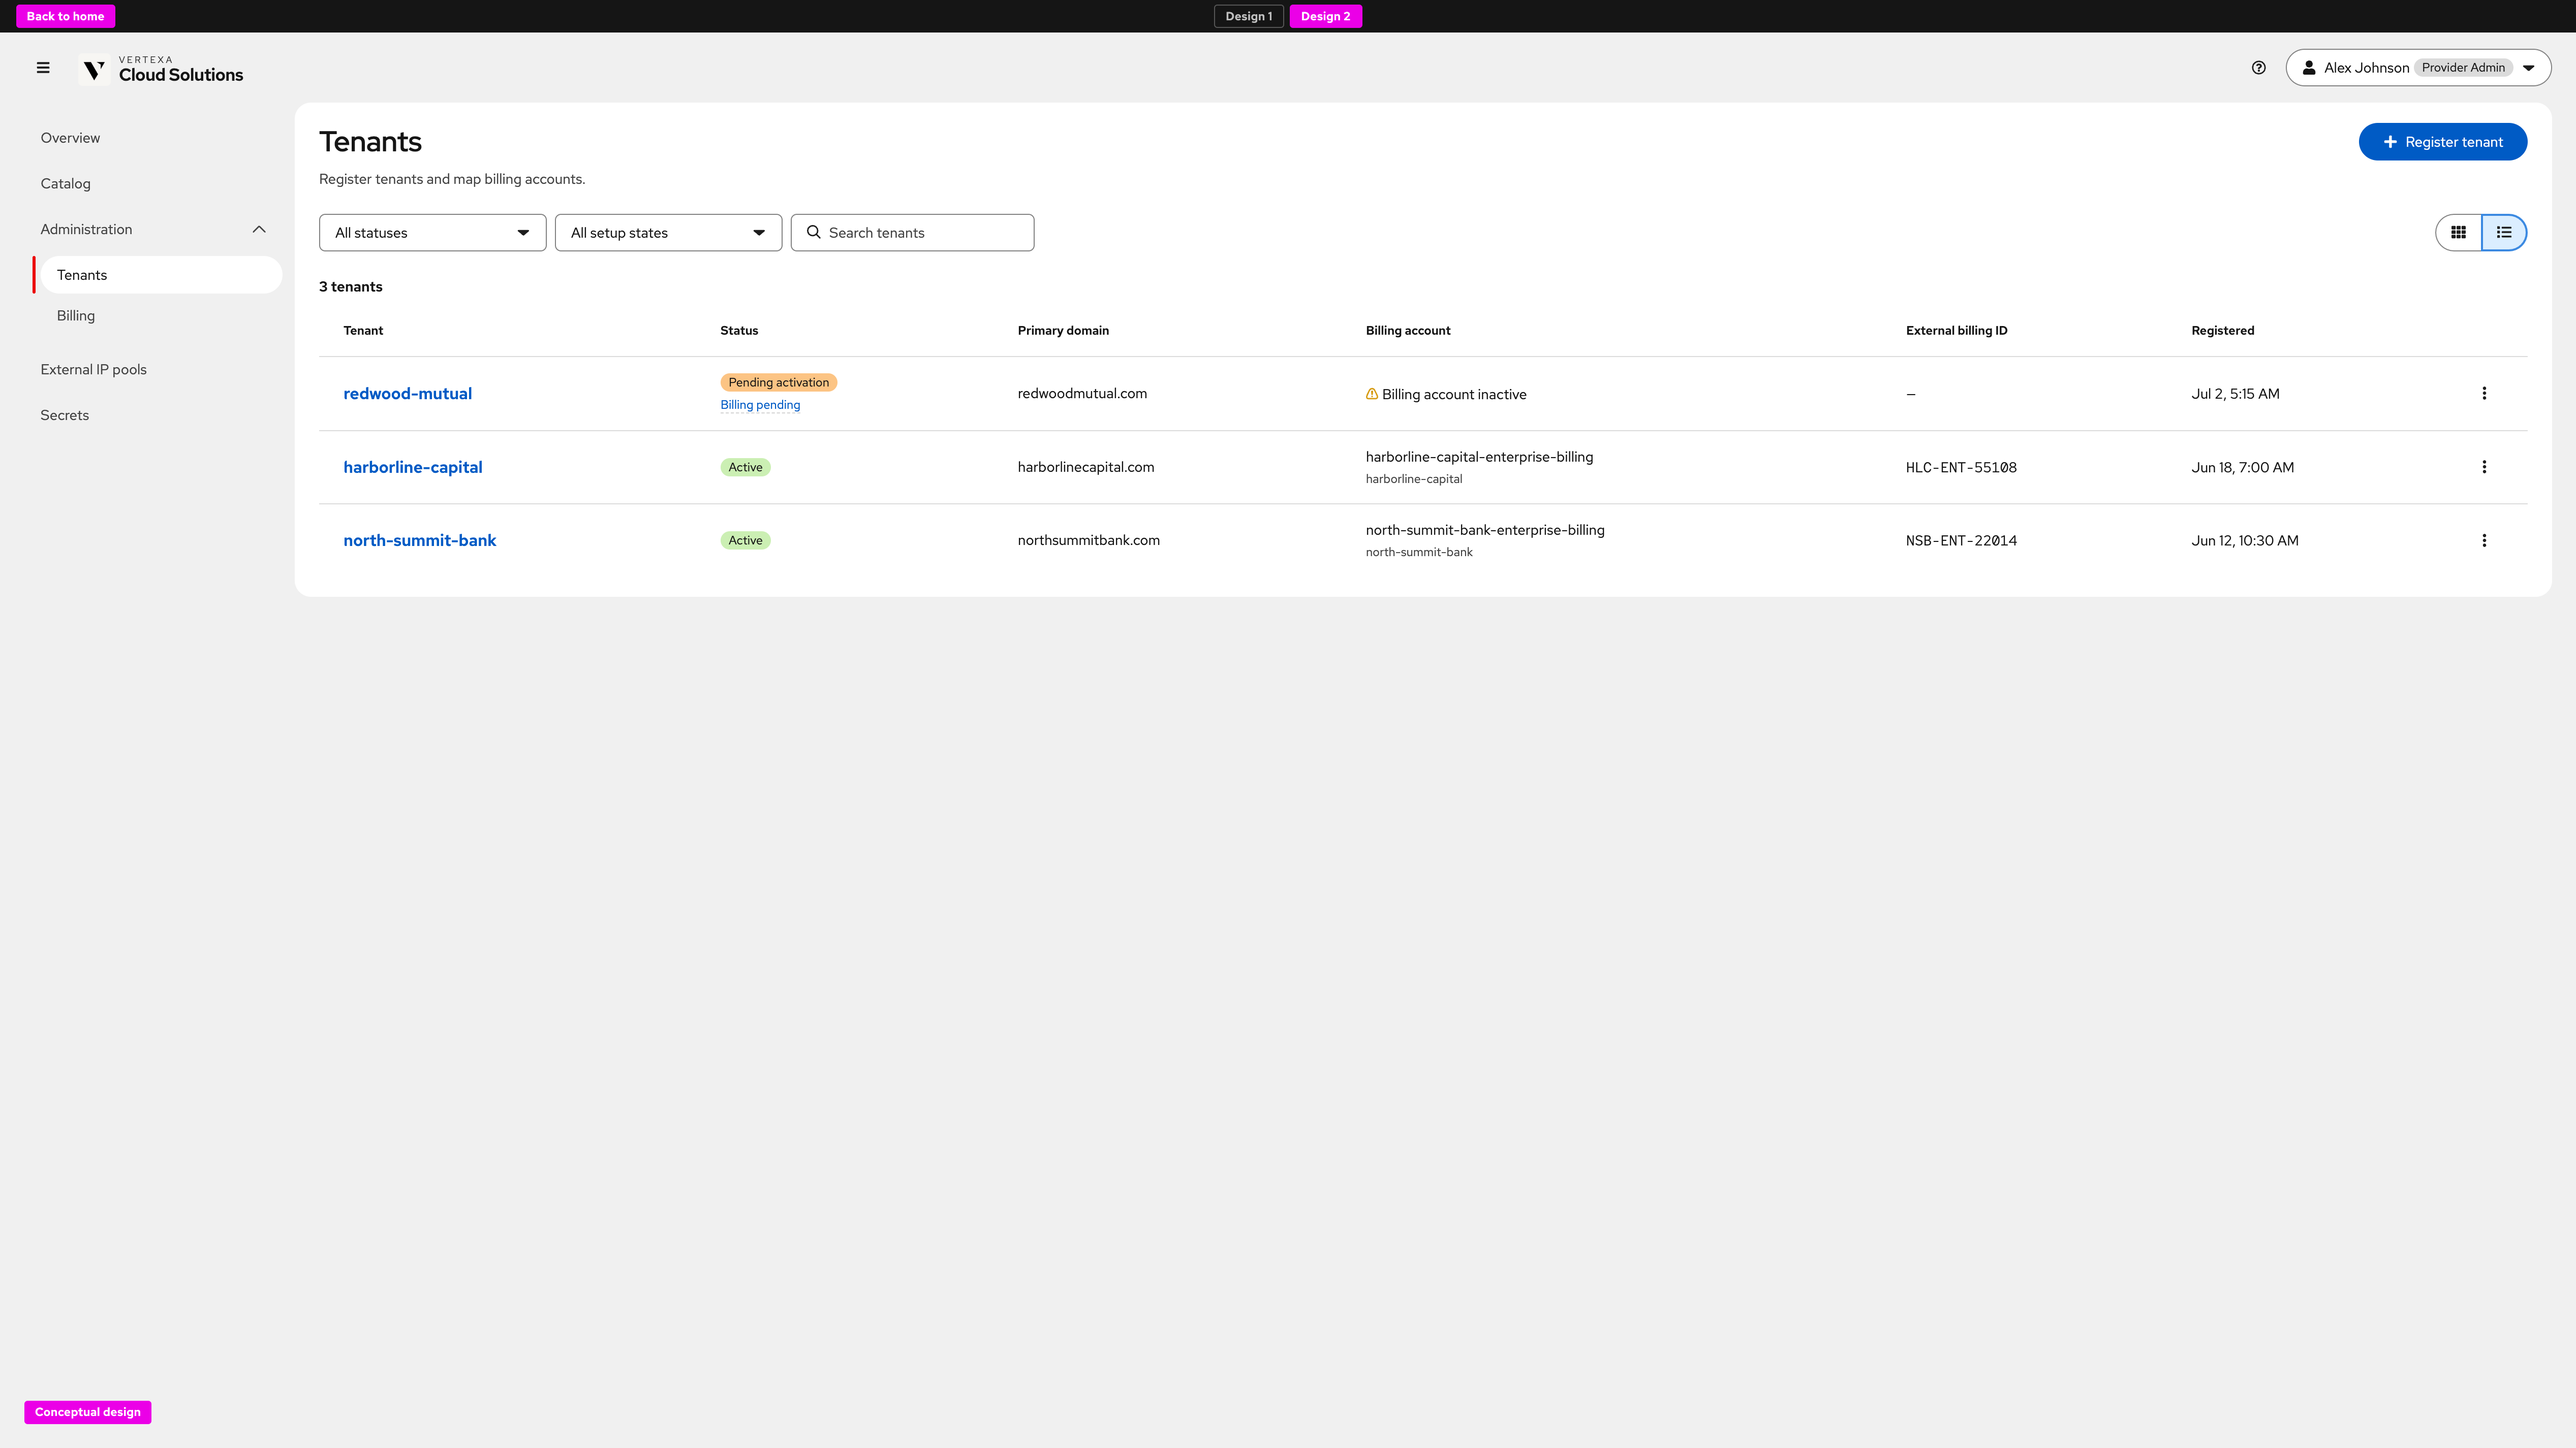
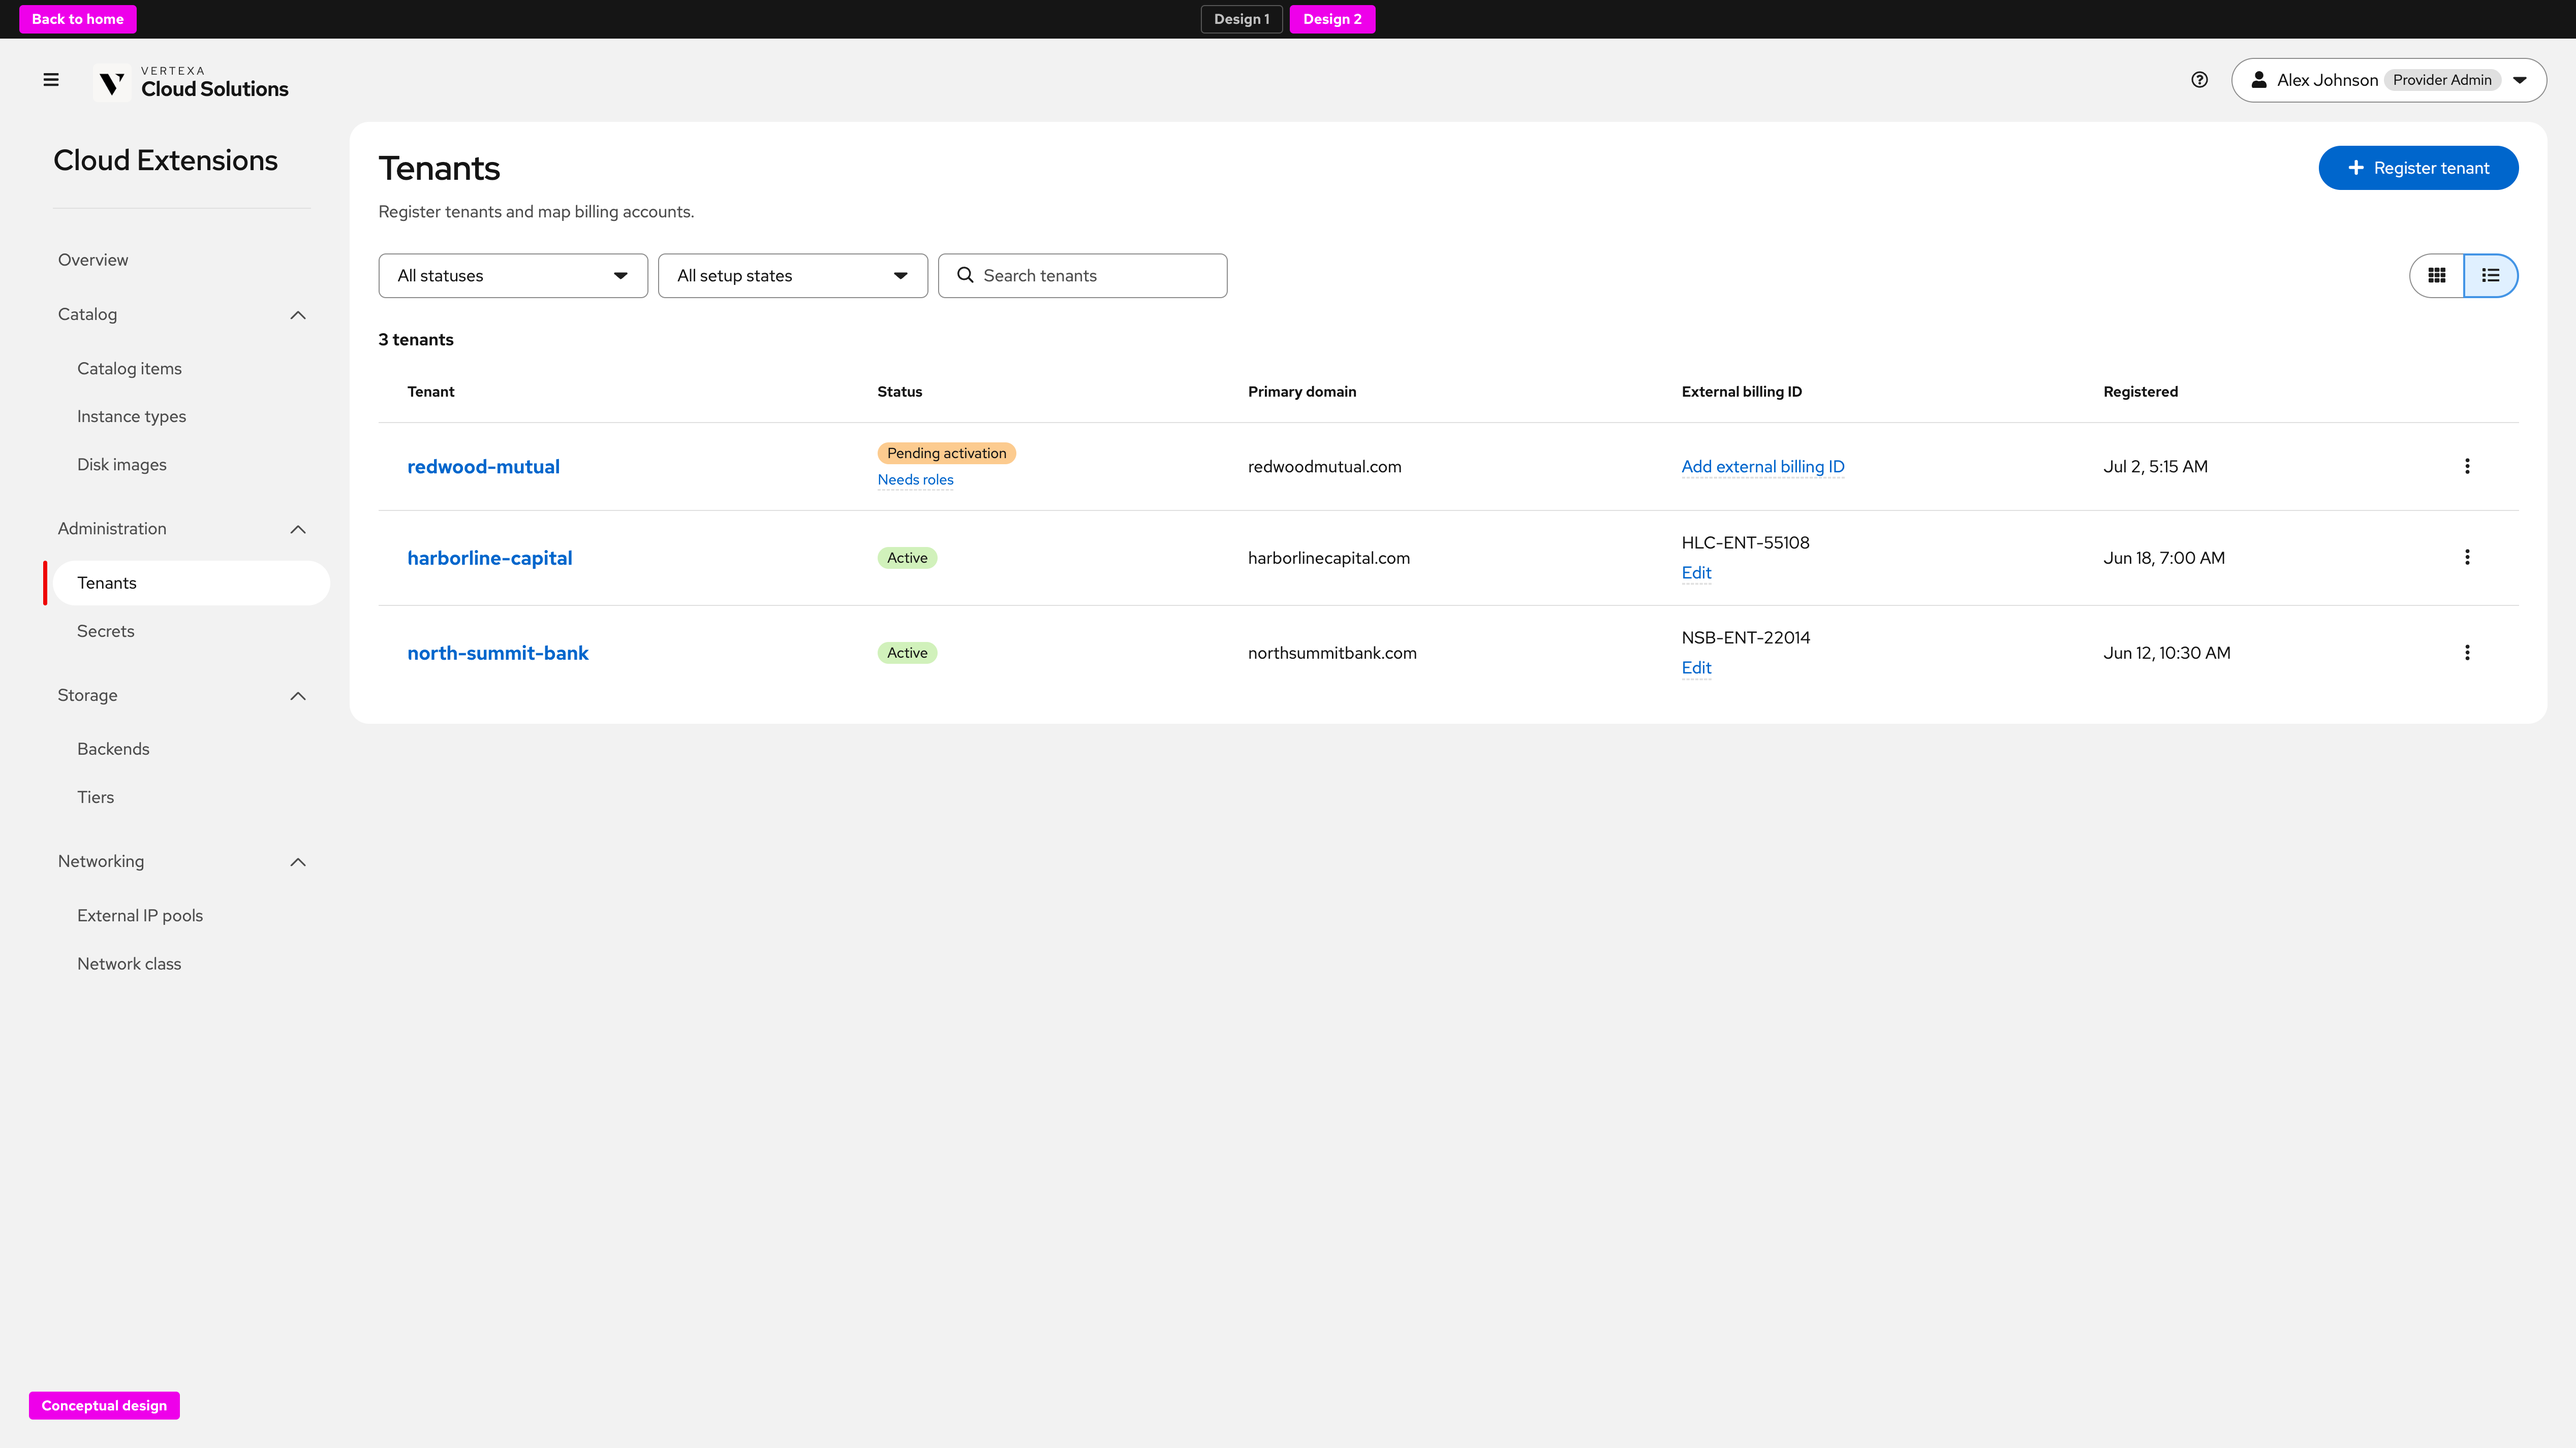
OSAC-6161: Refresh external billing ID UX design from Design Lab
Point prototype links at the published design-lab Design 2 flow and update
screenshots and copy to match the current Billing, Review, list, and detail
screens.

Assisted-by: Cursor <cursor.com>

diff --git a/enhancements/OSAC-6161-tenant-external-billing-id/ux-design.md b/enhancements/OSAC-6161-tenant-external-billing-id/ux-design.md
@@ -2,12 +2,12 @@
 title: tenant-external-billing-id-ux
 authors:
   - ekim@redhat.com
-creation-date: 2026-11-11
-last-updated: 2026-11-11
+creation-date: 2026-11-23
+last-updated: 2026-11-23
 tracking-link:
   - https://redhat.atlassian.net/browse/OSAC-6161
 prd: "prd.md"
-prototype: "http://127.0.0.1:5176/provider/workspace?nav=administration-organizations&hub=1&topic=external-billing-id&design=2&action=register-tenant"
+prototype: "https://heyethankim.github.io/osac-design-lab/provider/workspace?nav=administration-organizations&hub=1&topic=external-billing-id&design=2&action=register-tenant"
 see-also:
   - "/enhancements/OSAC-6161-tenant-external-billing-id/prd.md"
   - "/enhancements/OSAC-6161-tenant-external-billing-id/design.md"
@@ -26,18 +26,17 @@ external billing system**
 Design 2 is the **no integrated billing system** path (Option B): when the
 cluster has no configured billing integration such as M360, Provider Admin
 does not see Link now / Set up later account-linking cards. The Billing step
-is a single optional **External billing ID** field (for example a Zuora
-account ID for Telus-style deployments).
+is a single optional **External billing ID** field (for example a Zuora-style
+account ID).
 
-**Prototype (developers — Design Lab on `:5176`):**
+**Prototype (developers):**
 
-- [Register tenant → Billing (Design 2)](http://127.0.0.1:5176/provider/workspace?nav=administration-organizations&hub=1&topic=external-billing-id&design=2&action=register-tenant)
-- [Tenants list (Design 2)](http://127.0.0.1:5176/provider/workspace?nav=administration-organizations&hub=1&topic=external-billing-id&design=2)
-- [Tenant detail — harborline-capital](http://127.0.0.1:5176/provider/workspace?nav=administration-organizations&hub=1&topic=external-billing-id&design=2&tenant=org-harborline-capital)
+- [Register tenant → Billing (Design 2)](https://heyethankim.github.io/osac-design-lab/provider/workspace?nav=administration-organizations&hub=1&topic=external-billing-id&design=2&action=register-tenant)
+- [Tenants list (Design 2)](https://heyethankim.github.io/osac-design-lab/provider/workspace?nav=administration-organizations&hub=1&topic=external-billing-id&design=2)
+- [Tenant detail — harborline-capital](https://heyethankim.github.io/osac-design-lab/provider/workspace?nav=administration-organizations&hub=1&topic=external-billing-id&design=2&tenant=org-harborline-capital)
 
 Requirements: [prd.md](prd.md). Backend / API design: [design.md](design.md).
-Clarifications (D2 interface lock for the Feature MVP):
-[clarifications.md](clarifications.md).
+Clarifications: [clarifications.md](clarifications.md).
 
 > **Scope note.** The locked Feature MVP stores and reads
 > `external_billing_id` on the **private** Tenant API and stamps it into
@@ -48,29 +47,27 @@ Clarifications (D2 interface lock for the Feature MVP):
 
 ## Product decisions (this release / Design 2)
 
-- **Adapt when no billing integration is configured.** Behind the scenes the
-  UI checks whether an integrated billing system (for example M360) is
-  configured on the cluster. If **not**, Design 2 hides Link now / Set up
-  later and shows only **External billing ID (optional)** plus an inline
-  info alert: **No integrated billing system detected**.
-- **Opaque, optional identifier.** The value is the account ID in the
-  operator’s external system (placeholder example `A00078421`). It is not
-  validated against that system at onboarding ([prd.md](prd.md) Out of
-  Scope). Helper copy: *Optional. Not checked against the platform.* Max
-  length matches the private API (256).
-- **Provider-only.** Capture and display live under Provider Admin →
-  **Administration → Tenants**. Tenant Admins and Tenant Users never see
-  the field ([prd.md](prd.md)).
-- **Register and edit share the Billing step.** Create uses **General →
-  Billing → Review**. Edit / resume billing reuse the same Billing step so
-  the ID can be set or changed after registration (FR-4: changes apply
-  going forward in metering).
-- **Review names the mode.** Review shows Billing as *External billing ID
-  only (no integrated billing)* and repeats the entered ID (or —).
+- **No integrated billing → external ID only.** When no integrated billing
+  system is configured, Design 2 hides Link now / Set up later and shows only
+  an optional **External billing ID** on the Billing step. Lede: *Enter an
+  optional external billing ID for this tenant. You can leave it blank and add
+  it later.*
+- **Opaque, optional identifier.** Placeholder example `A00078421`. The value
+  is not validated against the external system at onboarding
+  ([prd.md](prd.md) Out of Scope). Max length matches the private API (256).
+- **Provider-only.** Capture and display under Provider Admin →
+  **Administration → Tenants**. Tenant Admins and Tenant Users never see the
+  field ([prd.md](prd.md)).
+- **Register and edit share Billing.** Create uses **General → Billing →
+  Review**. List **Add external billing ID** / **Edit** and detail **Edit**
+  reopen the same Billing step so the ID can be set or changed after
+  registration (FR-4: changes apply going forward in metering).
+- **Review shows the ID.** Review lists **External billing ID** with the
+  entered value (or empty / — when blank). No separate billing-mode label.
 - **List and detail make presence observable.** Tenants list includes an
-  **External billing ID** column; tenant Overview shows the value in
-  `<code>` when set, — when absent ([clarifications.md](clarifications.md)
-  D3 field-presence observability).
+  **External billing ID** column (**Add external billing ID** when unset;
+  value + **Edit** when set). Tenant Overview shows the ID with **Edit**;
+  Tenant setup tracks **External billing ID** as a checklist step.
 
 ---
 
@@ -83,15 +80,16 @@ Cloud Provider Admin opens Administration → Tenants
 Register tenant (Design 2) — General → Billing → Review
         │
         ▼
-Billing: no M360 / integrated billing
-  • Alert: No integrated billing system detected
-  • Optional External billing ID
+Billing: optional External billing ID only
+  (no Link now / Set up later / M360 picker)
         │
         ▼
 Review → Register tenant
         │
         ▼
-Tenants list / tenant detail show External billing ID when set
+Tenants list / tenant detail show External billing ID
+  • unset → Add external billing ID
+  • set → value + Edit
 ```
 
 ---
@@ -103,13 +101,12 @@ external billing account identifier at tenant registration when the
 deployment has no integrated billing platform to link against
 ([prd.md](prd.md) Cloud Provider Admin stories).
 
-**Explanation.** On **Register tenant → Billing**, Design 2 leads with
-*Enter an optional external billing ID for this tenant.* An info alert
-states that no integrated billing system was detected and that account
-linking is unavailable. Below it, a single **External billing ID** text
-field (example placeholder `e.g. A00078421`) accepts the opaque ID. There
-are no timing cards and no M360 account picker. **Next** advances to
-Review; leaving the field empty is valid.
+**Explanation.** On **Register tenant → Billing**, Design 2 leads with *Enter
+an optional external billing ID for this tenant. You can leave it blank and
+add it later.* A single **External billing ID** text field (placeholder
+`e.g. A00078421`) accepts the opaque ID. There are no timing cards and no
+M360 account picker. **Next** advances to Review; leaving the field empty is
+valid.
 
 <img src="assets/01-register-tenant-billing-design-2.png" alt="Register tenant Billing step — Design 2 external billing ID only" width="720" />
 
@@ -117,15 +114,14 @@ Review; leaving the field empty is valid.
 
 ## 2. Register tenant — Review
 
-**What this screen is for.** Confirm tenant identity and the external
-billing association before the tenant is created.
+**What this screen is for.** Confirm tenant identity and the external billing
+association before the tenant is created.
 
 **Explanation.** **Review** summarizes tenant name, primary email domain,
-company logo, Billing mode (**External billing ID only (no integrated
-billing)**), and the **External billing ID** value (or —). Primary action
-is **Register tenant**.
+company logo, and **External billing ID** (for example `A00078421`). Primary
+action is **Register tenant**.
 
-<img src="assets/02-register-tenant-review-design-2.png" alt="Register tenant Review with external billing ID only" width="720" />
+<img src="assets/02-register-tenant-review-design-2.png" alt="Register tenant Review with external billing ID" width="720" />
 
 ---
 
@@ -135,10 +131,11 @@ is **Register tenant**.
 carry an external billing identifier and spot gaps before or after
 onboarding.
 
-**Explanation.** **Administration → Tenants** list view includes
-**External billing ID** beside Billing account. Set values render as
-`<code>`; unset rows show —. Search can match the ID. Grid cards may
-surface the same identifier where space allows; list view is the
+**Explanation.** **Administration → Tenants** lede: *Register tenants and map
+billing accounts.* List view columns include **External billing ID**. Unset
+rows show **Add external billing ID**; set rows show the value (for example
+`HLC-ENT-55108`) with **Edit**. Both open the Billing step under Design 2
+rules. Search and filters stay on the Tenants page; list view is the
 canonical scan surface for Design 2 observability.
 
 <img src="assets/03-tenants-list-external-billing-id-design-2.png" alt="Tenants list with External billing ID column" width="720" />
@@ -147,13 +144,15 @@ canonical scan surface for Design 2 observability.
 
 ## 4. Tenant detail — Overview
 
-**What this screen is for.** Confirm the stored external billing identity
-on an existing tenant and support edit / resume flows that change it.
+**What this screen is for.** Confirm the stored external billing identity on
+an existing tenant and support edit flows that change it.
 
-**Explanation.** Tenant Overview includes **External billing ID** in the
-description list. Present = associated; absent = —. Actions → Edit (or
-Billing setup) reopen the wizard Billing step under the same Design 2
-rules so the opaque ID can be added or replaced without requiring an
+**Explanation.** Tenant Overview includes **External billing ID** with the
+value in `<code>` and an inline **Edit** control (for example
+`HLC-ENT-55108`). Absent values show — or drive **Add** from the list.
+**Tenant setup** lists **External billing ID** as a completed step when set.
+Header **Actions** and **Edit** reopen the wizard Billing step under the same
+Design 2 rules so the opaque ID can be added or replaced without requiring an
 integrated billing link.
 
 <img src="assets/04-tenant-detail-external-billing-id-design-2.png" alt="Tenant detail Overview with External billing ID" width="720" />
